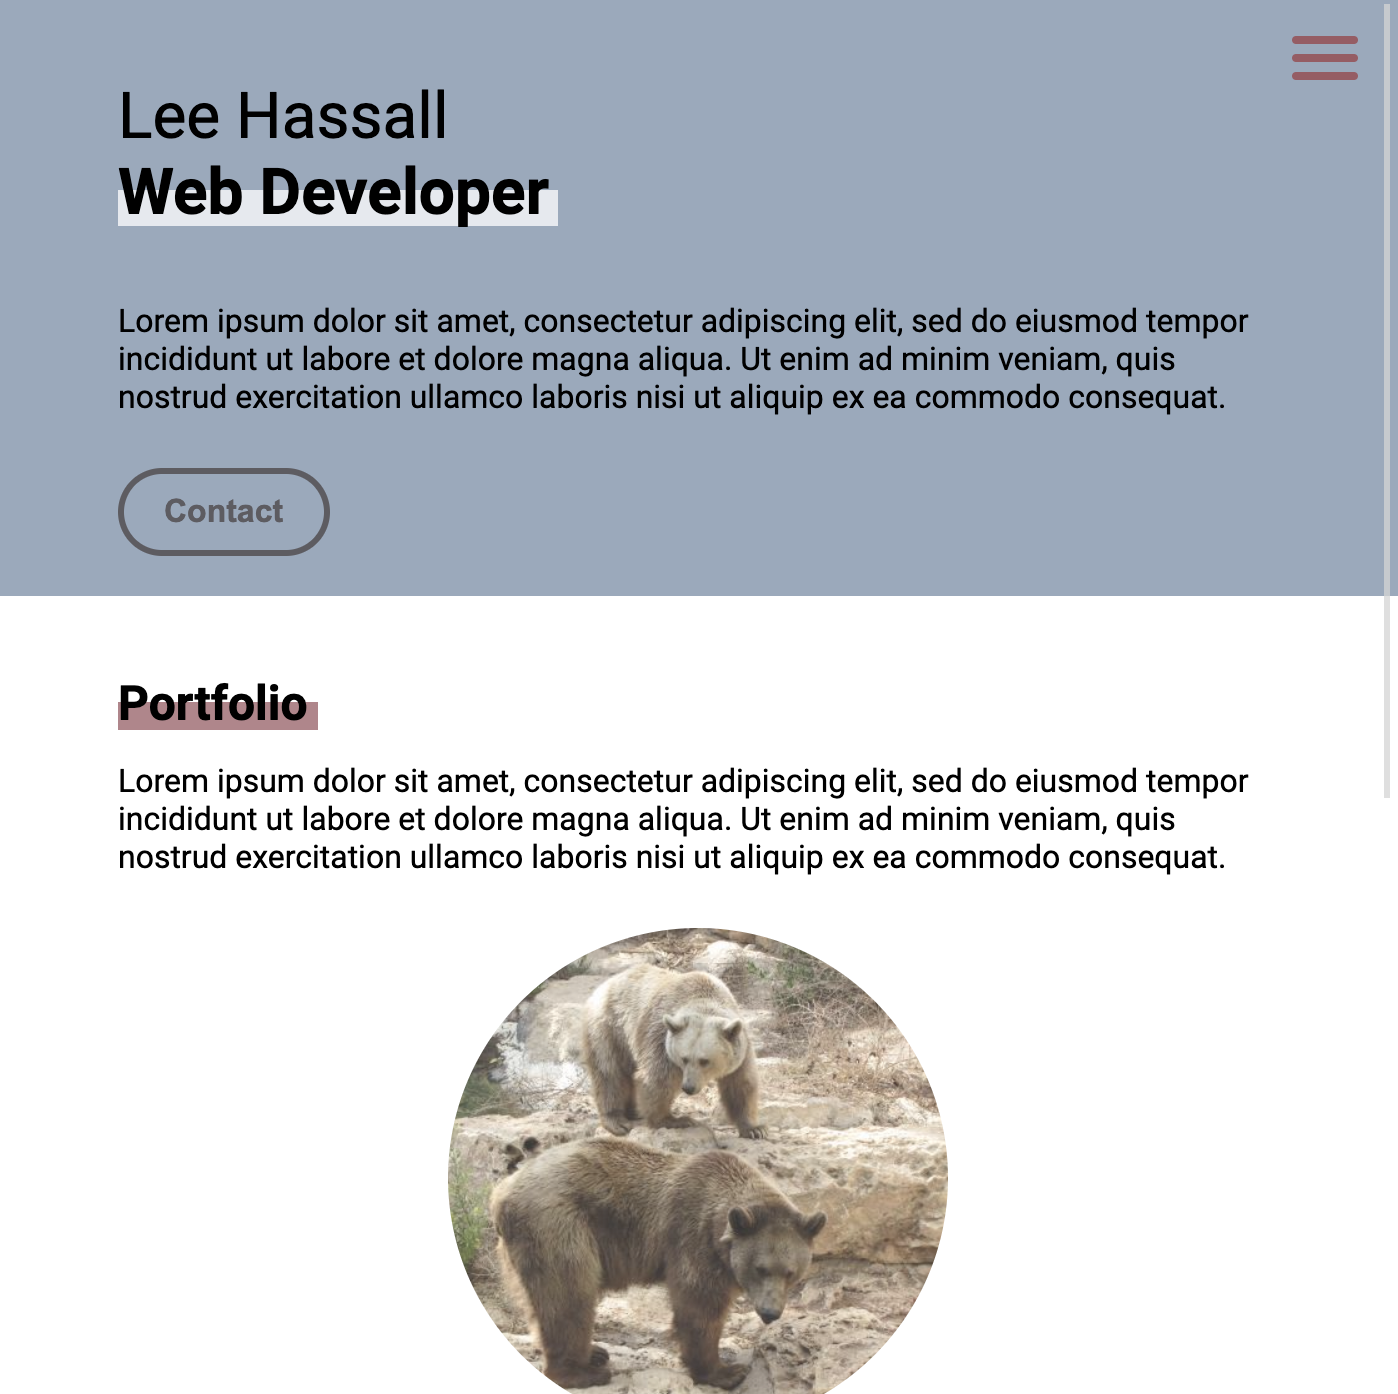
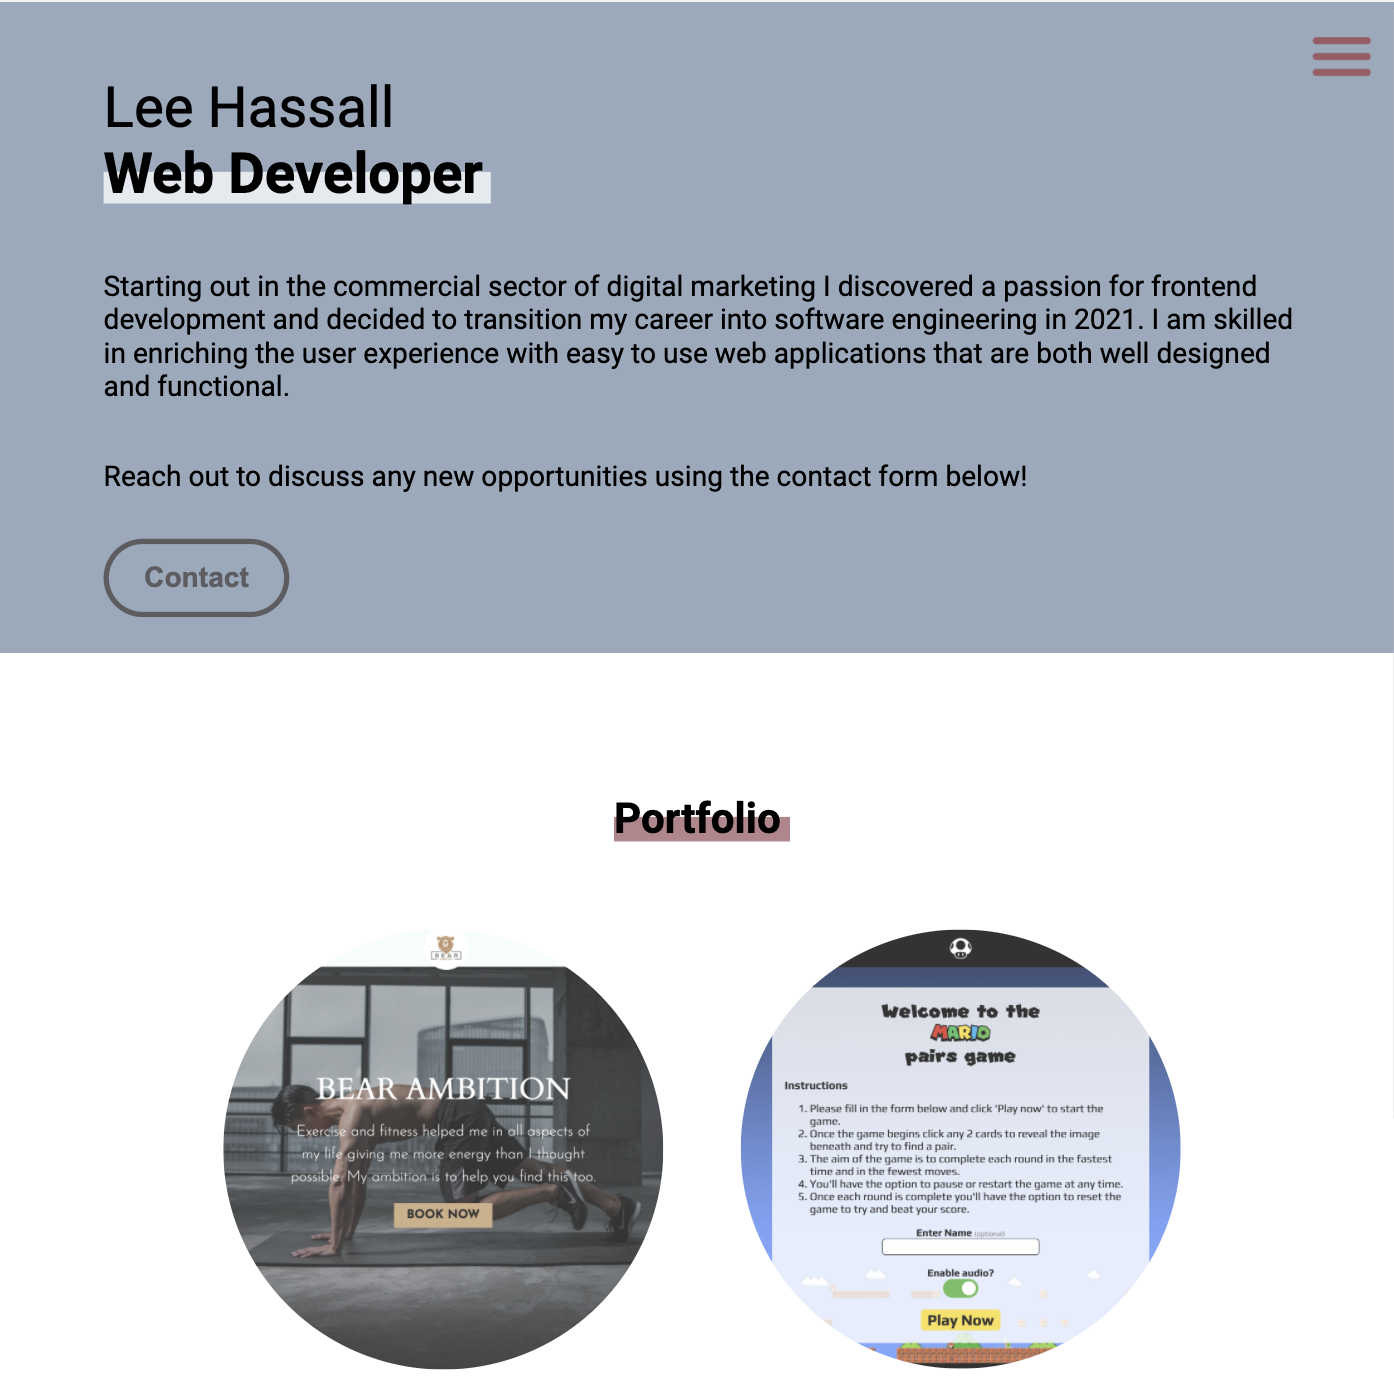
Updated about copy and portfolio image.

Changed region(s): [[0.0, 0.0, 1.0, 0.5861], [0.0925, 0.5552, 0.8945, 1.0]]

diff --git a/src/Components/Pages/About/about.js b/src/Components/Pages/About/about.js
@@ -48,10 +48,11 @@ const About = (props) => {
       </ul>
       <div className={styles.introCopy}>
         <p>
-          Starting out in the commercial sector of digital marketing, I found my
-          calling in front end development. My passion lies in enriching the
-          user experience with easy to use web applications that are both well
-          designed and functional.
+          Starting out in the commercial sector of digital marketing I
+          discovered a passion for frontend development and decided to
+          transition my career into software engineering in 2021. I am skilled
+          in enriching the user experience with easy to use web applications
+          that are both well designed and functional.
         </p>
         <p>
           Reach out to discuss any new opportunities using the contact form
